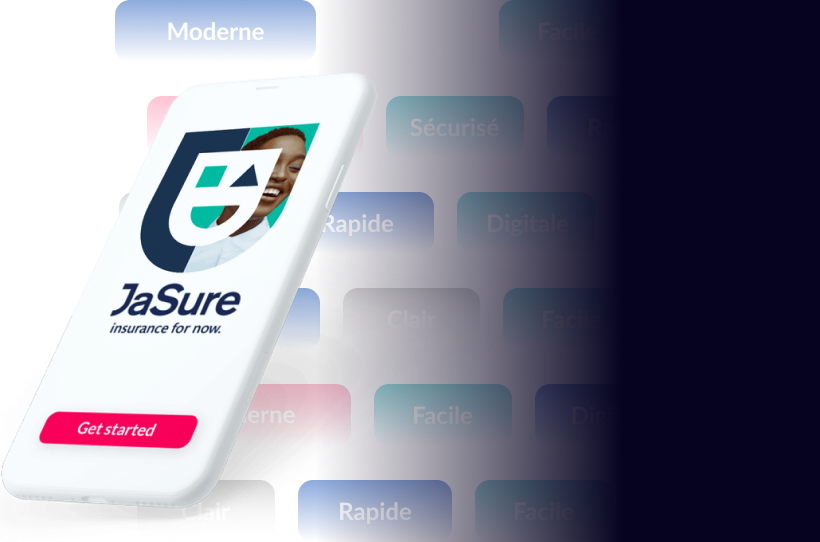
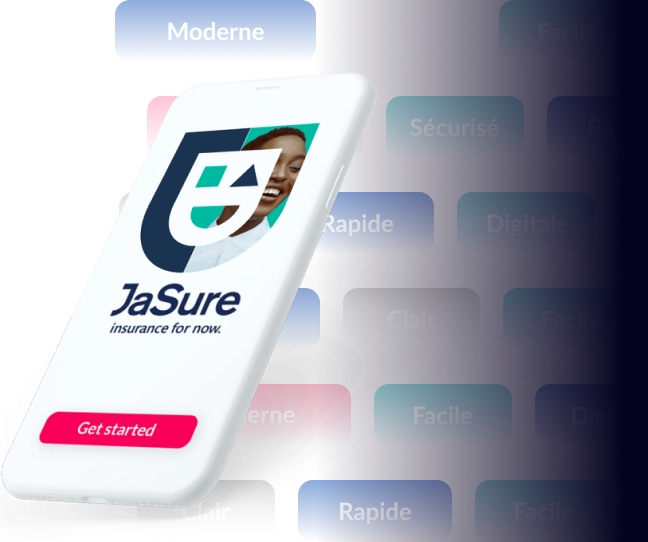
chore: app-store
- reduce negative space
- increase font size
- move img to the right

diff --git a/components/AppStore.vue b/components/AppStore.vue
@@ -6,7 +6,7 @@ const { t } = useI18n({
 
 <template>
   <section
-    class="relative z--10 pt-30 lg:pt-62"
+    class="pt-30 lg:pt-62"
   >
     <div class="grid grid-cols-[auto_1fr] grid-rows-[min-content_1fr] mx-auto px-6 container">
       <div class="col-span-2 max-w-190 pb-3 lg:col-span-1">
@@ -18,8 +18,8 @@ const { t } = useI18n({
         <img src="/store-side.png" alt="phone" class="mx-auto">
       </div>
 
-      <div class="mt-3 flex flex-col justify-end">
-        <p class="text-xs">
+      <div class="mt-3 flex flex-col lg:mt-17">
+        <p class="text-xs lg:text-lg">
           L’application est
         </p>
 
